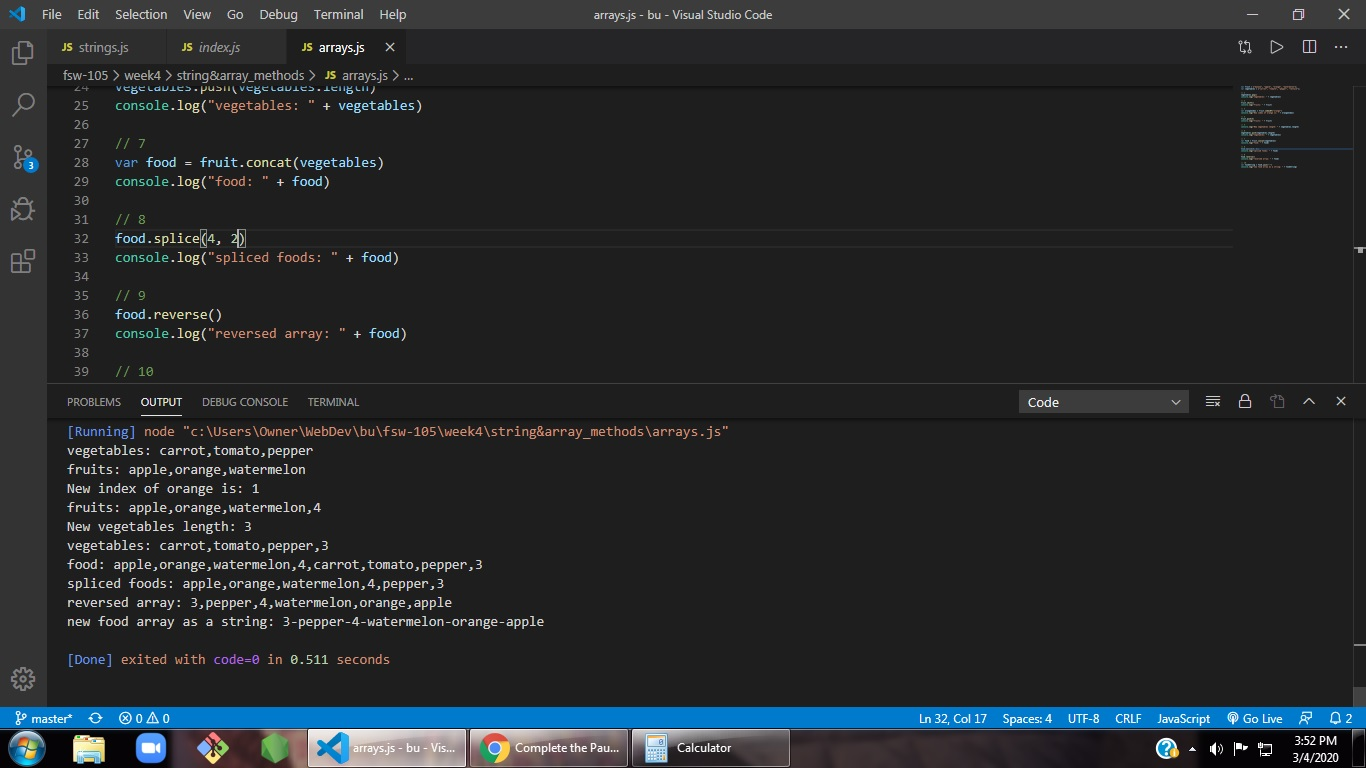
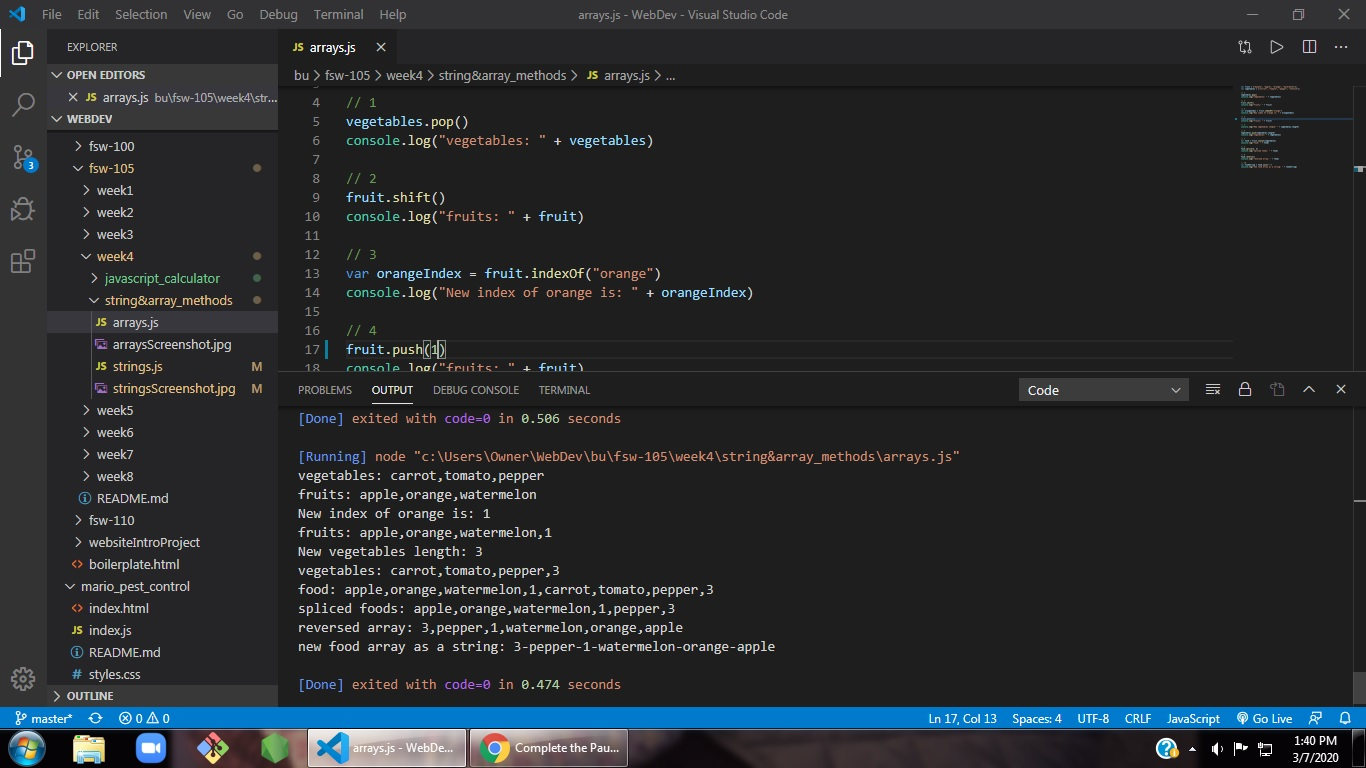
string and array methods resubmission

diff --git a/week4/string&array_methods/strings.js b/week4/string&array_methods/strings.js
@@ -1,30 +1,47 @@
 // 1
-var name = "sabrina";
-var upperCaseName = name.toUpperCase();
-console.log(upperCaseName + name)
+function capitalizeAndLowercase(str) {
+    var upperCase = str.toUpperCase();
+    var lowerCase = str.toLowerCase();
+    console.log(upperCase + lowerCase)
+}
+capitalizeAndLowercase("Hello")
 
 // 2
-var helloWorld = "Hello World";
-var characters = helloWorld.length;
-var result = characters / 2;
-console.log(Math.floor(result))
+function findMiddleIndex(str) {
+    var characterCount = str.length;
+    var halfCharacters = characterCount / 2;
+    console.log(Math.floor(halfCharacters))
+}
+findMiddleIndex("Hello")
+findMiddleIndex("Hello World")
 
 // 3
-var string = "You cannot read all of this string.";
-console.log(string.slice(0, string.length / 2))
+function returnFirstHalf(str) {
+    var characterCount = str.length;
+    var halfCharacters = characterCount / 2;
+    var slicedStr = str.slice(0, halfCharacters)
+    console.log(slicedStr)
+}
+returnFirstHalf("Hello")
+returnFirstHalf("Hello World")
 
 // 4
-var capitalAndLowerCase = "Capital and lower";
-var firstHalf = capitalAndLowerCase.slice(0, 8);
-var secondHalf = capitalAndLowerCase.slice(8, 17);
-console.log(firstHalf.toUpperCase() + secondHalf.toLowerCase())
+function capitalizeAndLowerCase2(str) {
+    var characterCount = str.length;
+    var halfCharacters = characterCount / 2;
+    var slicedStrStart = str.slice(0, halfCharacters);
+    var slicedStrEnd = str.slice(halfCharacters);
+    console.log(slicedStrStart.toUpperCase() + slicedStrEnd.toLowerCase())
+}
+capitalizeAndLowerCase2("Hello")
+capitalizeAndLowerCase2("Hello World")
 
 // 5
-function capitalLetter(str) {
+function capitalize(str) {
     str = str.split(" ");
     for (var i = 0, x = str.length; i < x; i++) {
         str[i] = str[i][0].toUpperCase() + str[i].substr(1);
     }
     return str.join(" ");
 }
-console.log(capitalLetter("all of these words should be capitalized."));
+console.log(capitalize("hey friends! practice practice practice."));

diff --git a/week4/string&array_methods/arrays.js b/week4/string&array_methods/arrays.js
@@ -14,7 +14,7 @@ var orangeIndex = fruit.indexOf("orange")
 console.log("New index of orange is: " + orangeIndex)
 
 // 4
-fruit.push(4)
+fruit.push(1)
 console.log("fruits: " + fruit)
 
 // 5
